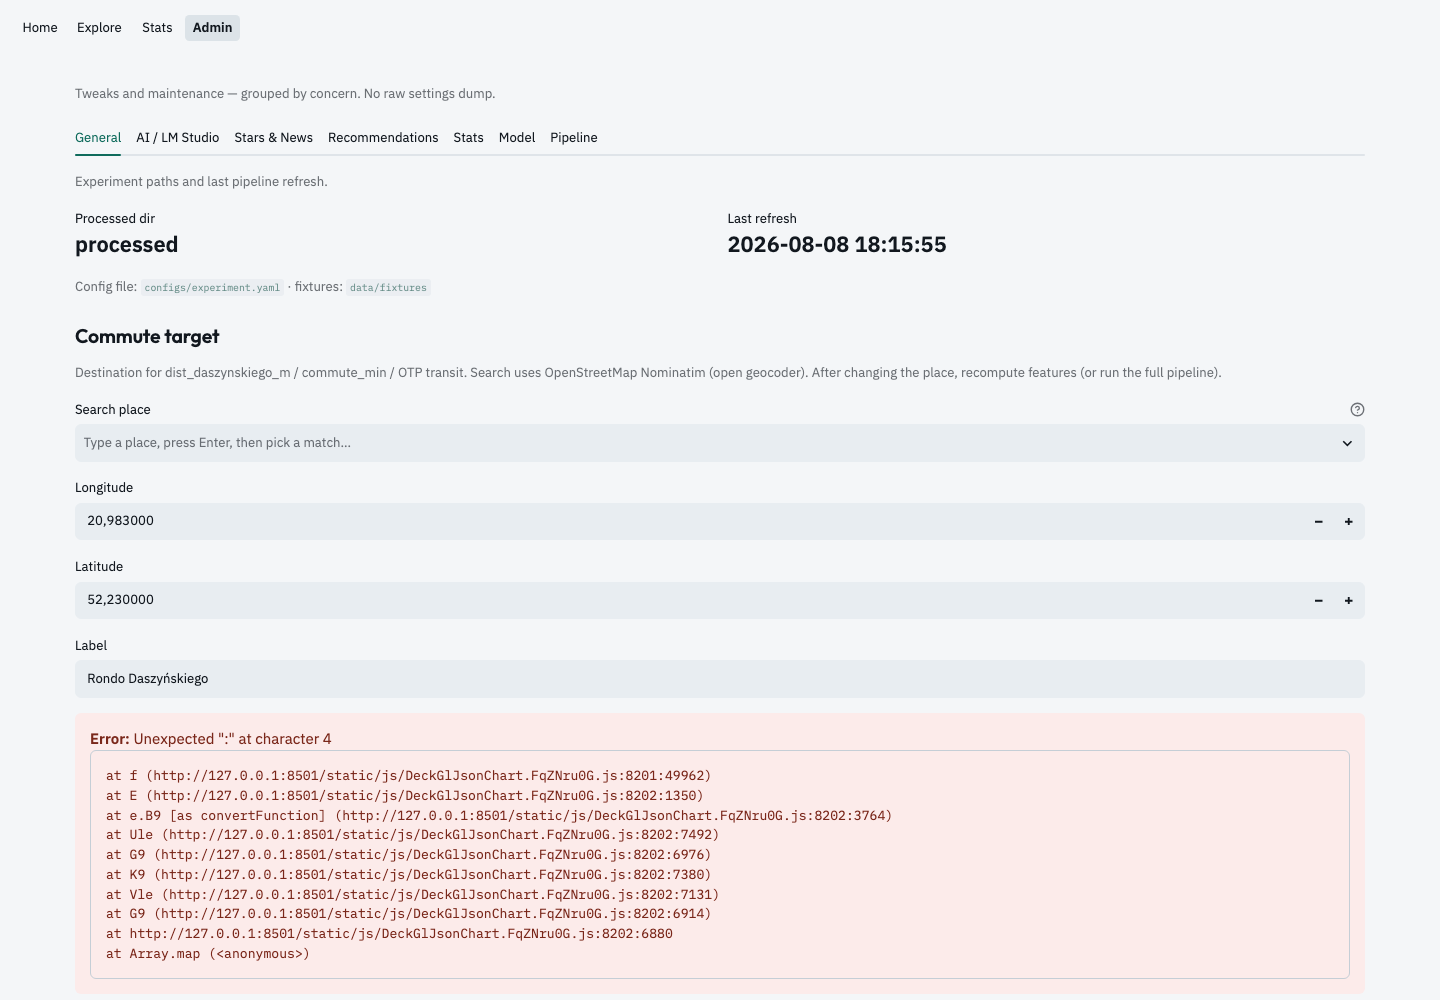
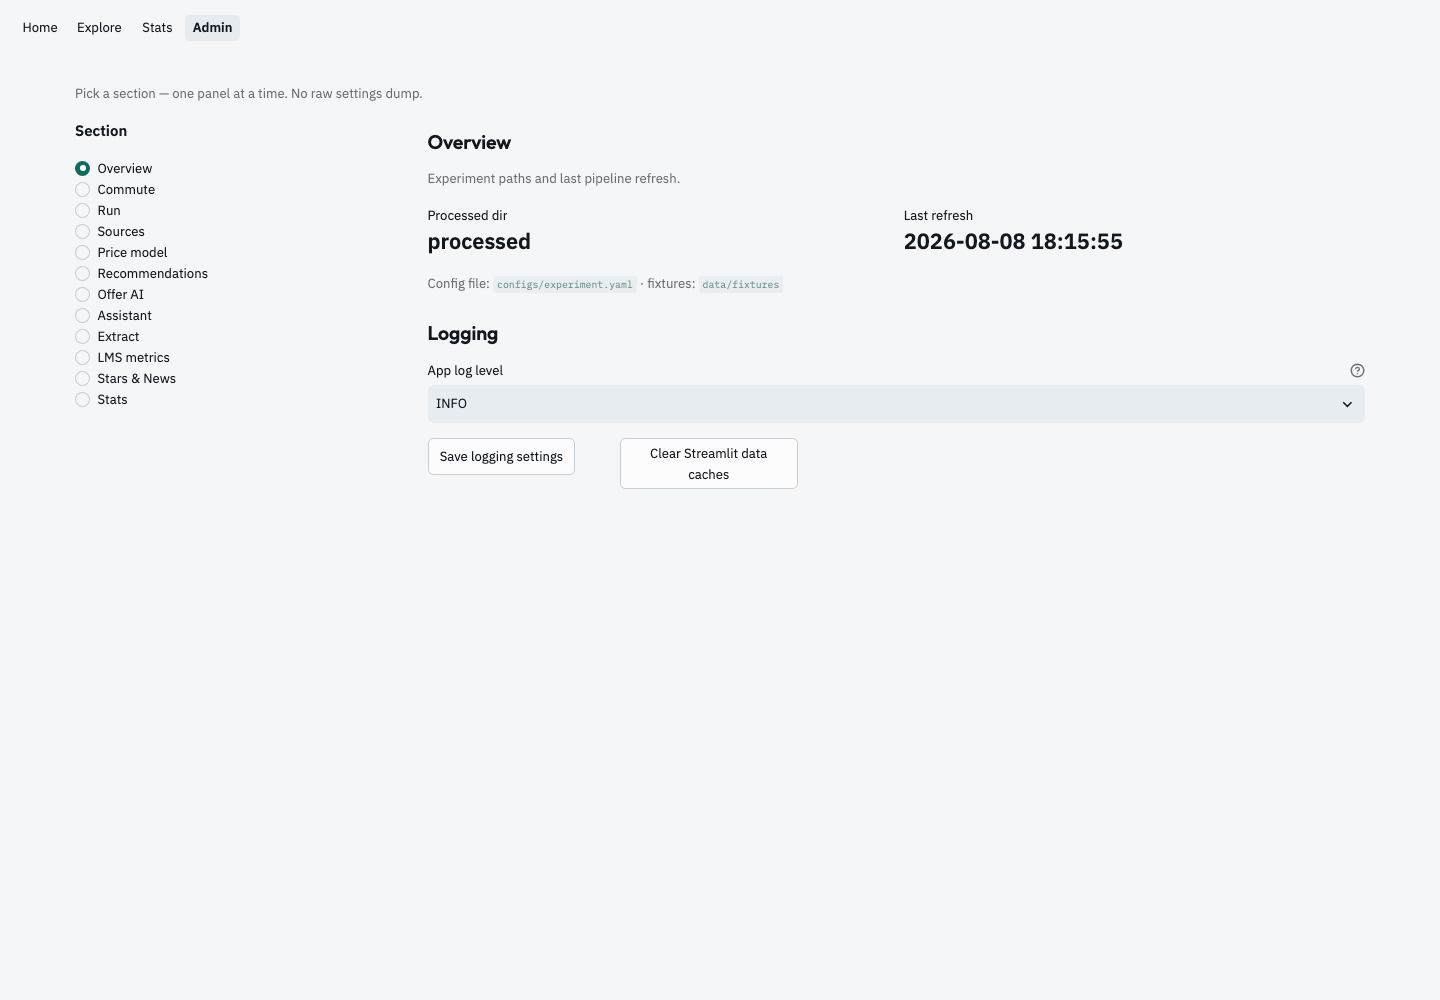
docs: refresh Admin screenshots for section nav

diff --git a/README.md b/README.md
@@ -72,11 +72,12 @@ Tunables: Admin → Stats (including SHAP sample size).
 
 ### Admin
 
-Tabbed settings (General · AI / LM Studio · Stars & News · Recommendations · Pipeline) — scrape, retrain, clear caches/memory. No raw JSON dump.
+Left section list (Overview · Commute · Run · Sources · …) — one short panel at
+a time for scrape, retrain, AI, and memory. No raw JSON dump.
 
-![Admin — General](docs/screenshots/09-admin.png)
+![Admin — Overview](docs/screenshots/09-admin.png)
 
-![Admin — AI / LM Studio](docs/screenshots/10-admin-settings.png)
+![Admin — Stats](docs/screenshots/10-admin-settings.png)
 
 Refresh screenshots after UI changes (app must be running):
 
